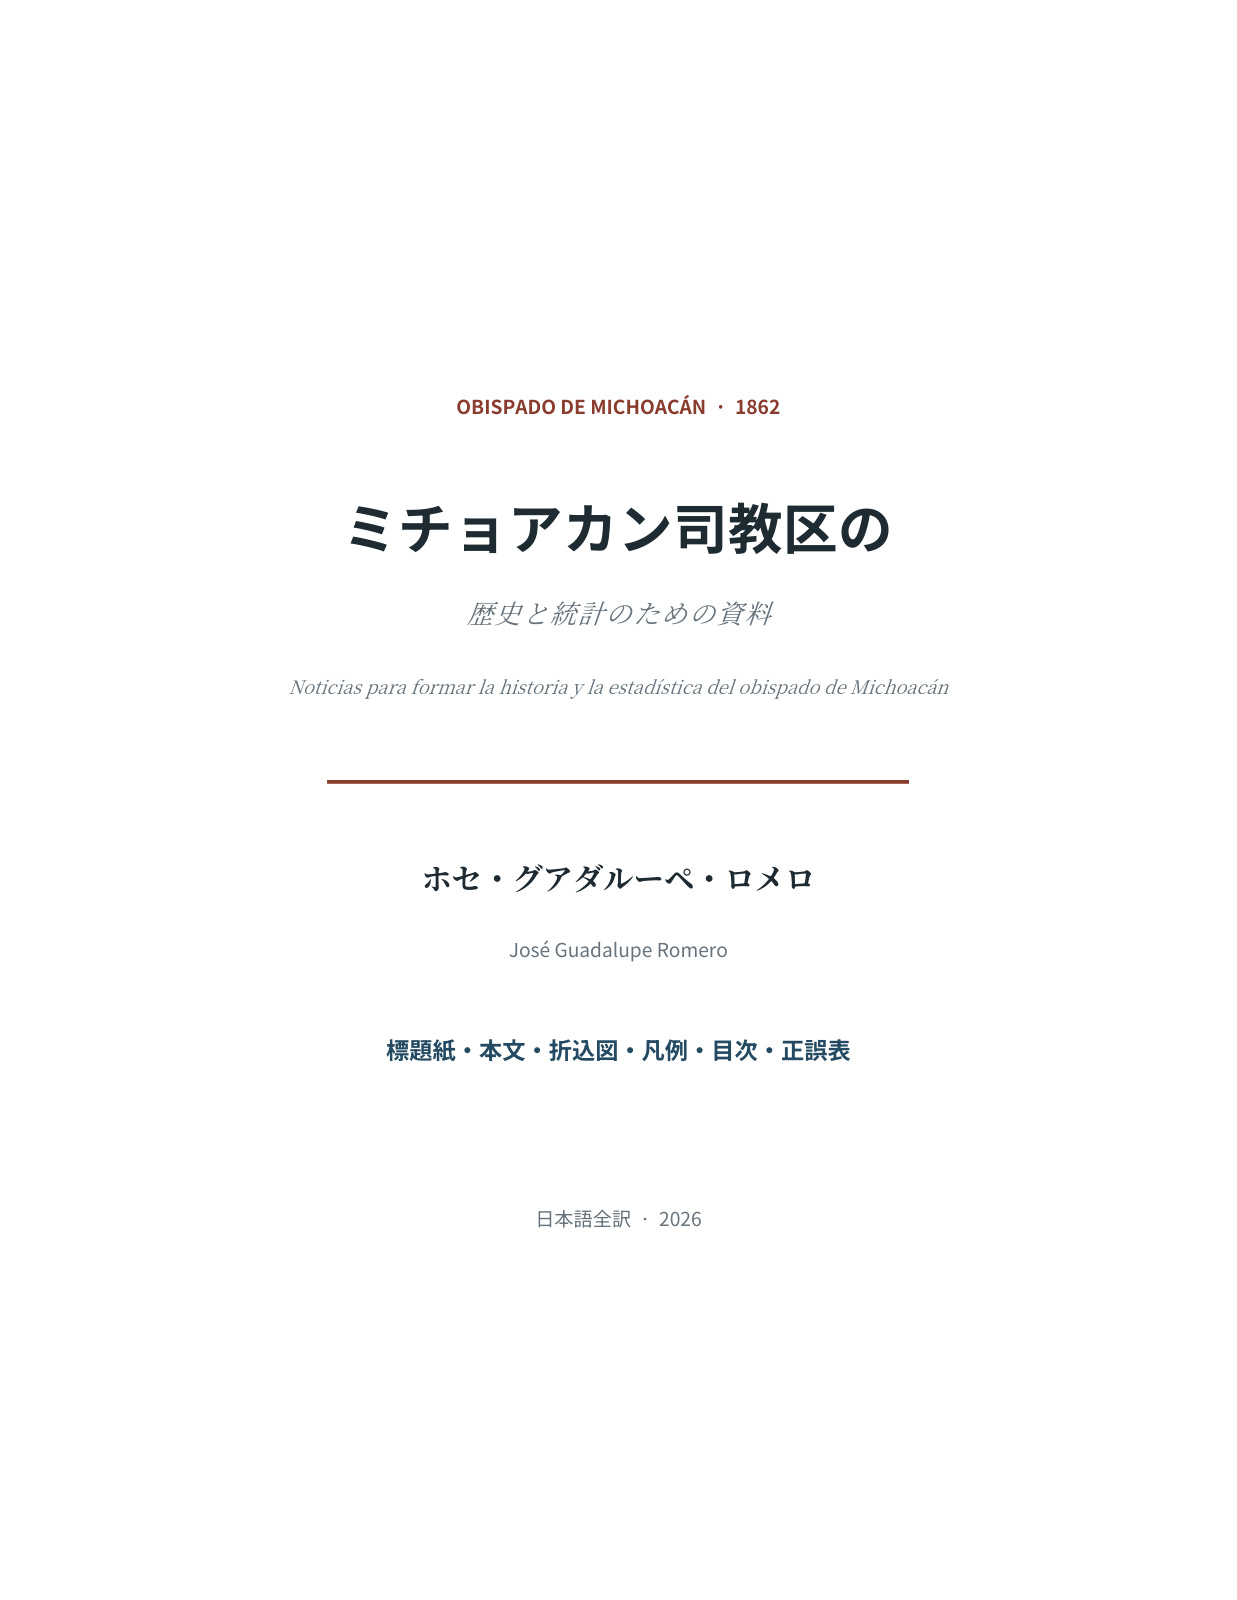
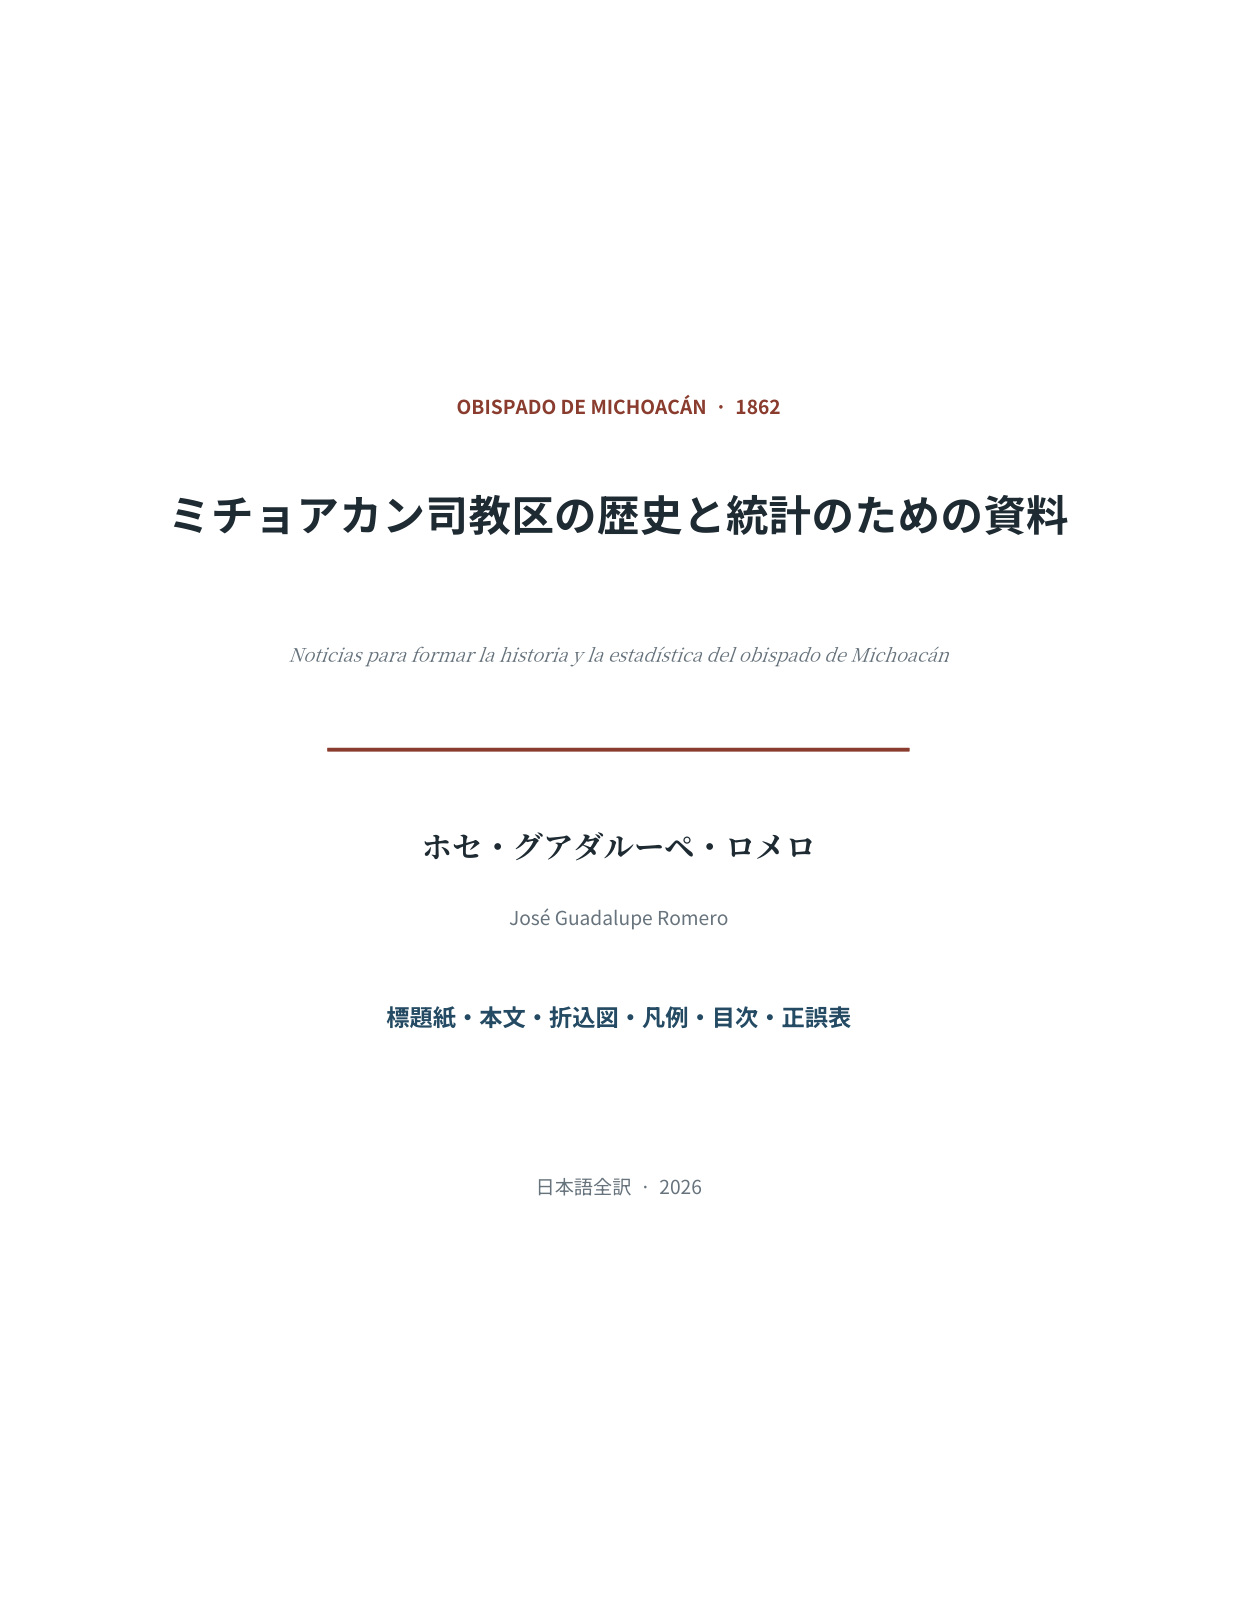
Set the complete Japanese title on the Romero 1862 cover

diff --git a/REVISION_LOG.md b/REVISION_LOG.md
@@ -833,3 +833,9 @@
    削除を含むためref更新を拒否された。最新`main`のtreeを基点にチャンクだけを
    追加したコミットへ作り直して解消した。今後の一時ブランチも必ず最新treeを
    継承する。
+
+
+## 2026-11-28 — ロメロ『ミチョアカン司教区の歴史と統計のための資料』表紙訂正
+
+- 和題全体を単一の主題として表示し、後半を副題にしていた書式を解消した。PDFの第2–414頁・索引参照・図版と、EPUBの本文・目次は変更なし。表紙画像は修正版に統一。
[1 lines of base64/hex data omitted]
